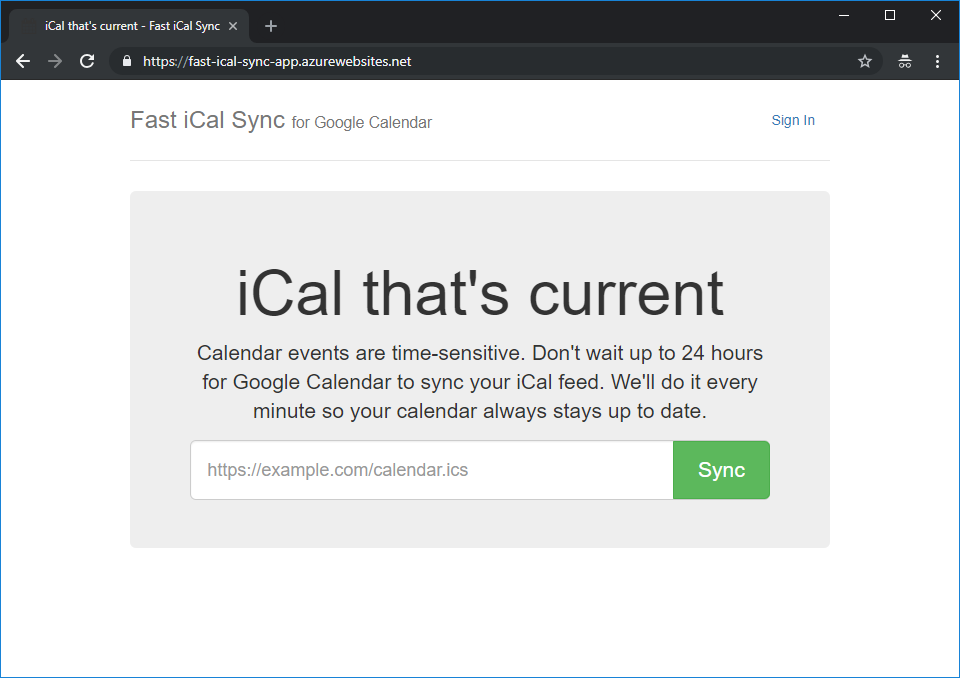
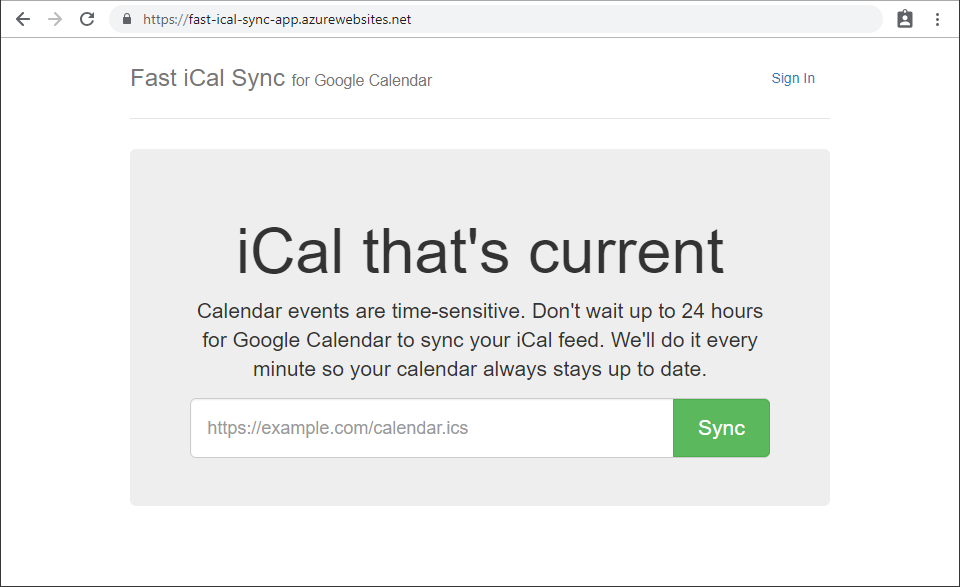
Updated readme and home page screenshot.

diff --git a/README.md b/README.md
@@ -2,6 +2,4 @@
 
 Synchronizes iCalendar data with Google Calendar faster than Google Calendar's built-in sync mechanism. Aims to address the numerous complaints about slow synchronization speed on the Google Calendar Product Forum: [Why does it take so long for Google Calendar to refresh iCal links?](https://productforums.google.com/forum/#!topic/calendar/VNHydDCukDU), [Google Calendar not updating published calendar added by URL](https://productforums.google.com/forum/#!topic/calendar/ixQnzHmWDSk), [iCAL sync frequency on Google Calendar](https://productforums.google.com/forum/#!topic/calendar/7SgPSL-VgaY).
 
-![Home page](/home-page.png)
-
-Hosted here: https://fast-ical-sync-app.azurewebsites.net/
+[![Home page](/home-page.png)](https://fast-ical-sync-app.azurewebsites.net/)
